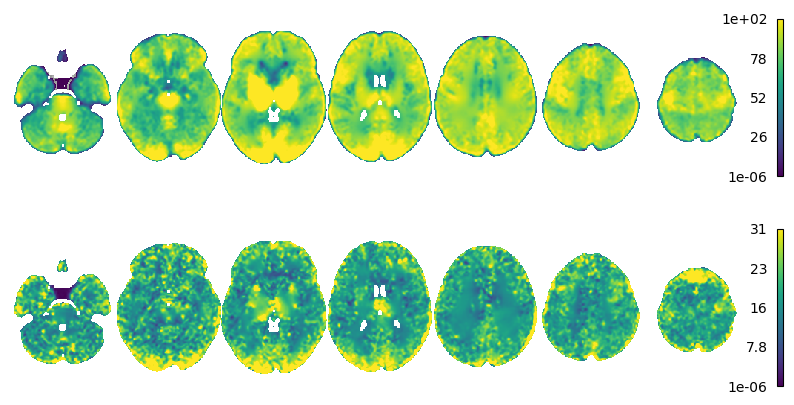
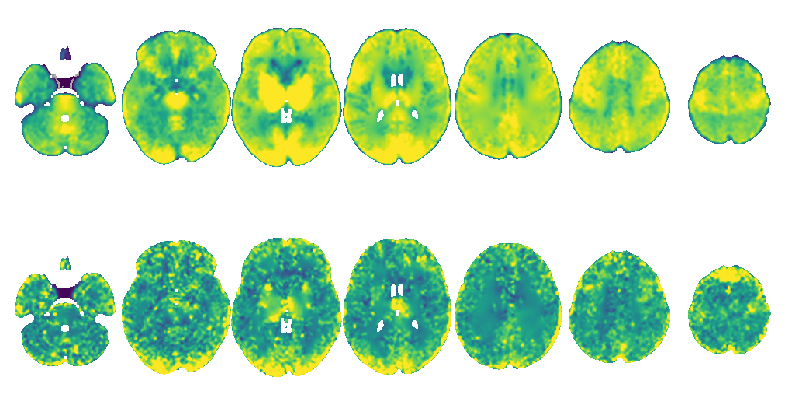
Forgot to remove the colorbars.

diff --git a/analysis/plot_qsirecon_scalar_maps.py b/analysis/plot_qsirecon_scalar_maps.py
@@ -53,6 +53,7 @@ if __name__ == "__main__":
             annotate=False,
             black_bg=False,
             resampling_interpolation="nearest",
+            colorbar=False,
         )
         vmax1 = np.round(np.percentile(sd_img.get_fdata(), 98), 2)
         plotting.plot_stat_map(
@@ -69,6 +70,7 @@ if __name__ == "__main__":
             annotate=False,
             black_bg=False,
             resampling_interpolation="nearest",
+            colorbar=False,
         )
         # fig.suptitle(title)
         fig.savefig(os.path.join(out_dir, f"{title.replace(' ', '_')}.png"), bbox_inches="tight")

diff --git a/analysis/plot_aslprep_cbf.py b/analysis/plot_aslprep_cbf.py
@@ -52,6 +52,7 @@ if __name__ == "__main__":
             annotate=False,
             black_bg=False,
             resampling_interpolation="nearest",
+            colorbar=False,
         )
         vmax1 = np.round(np.percentile(sd_img.get_fdata(), 98))
         plotting.plot_stat_map(
@@ -68,6 +69,7 @@ if __name__ == "__main__":
             annotate=False,
             black_bg=False,
             resampling_interpolation="nearest",
+            colorbar=False,
         )
         # fig.suptitle(title)
         fig.savefig(os.path.join(out_dir, f"{title.replace(' ', '_')}.png"), bbox_inches="tight")
